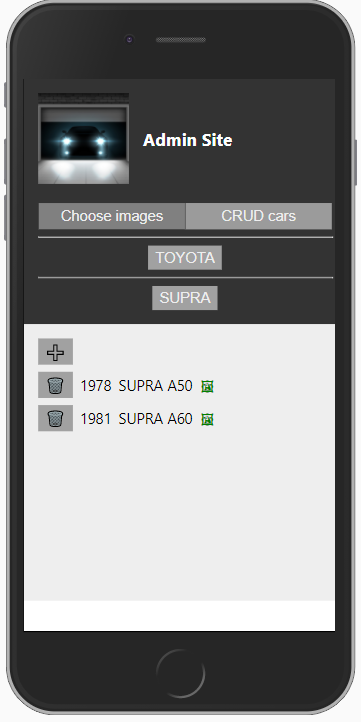
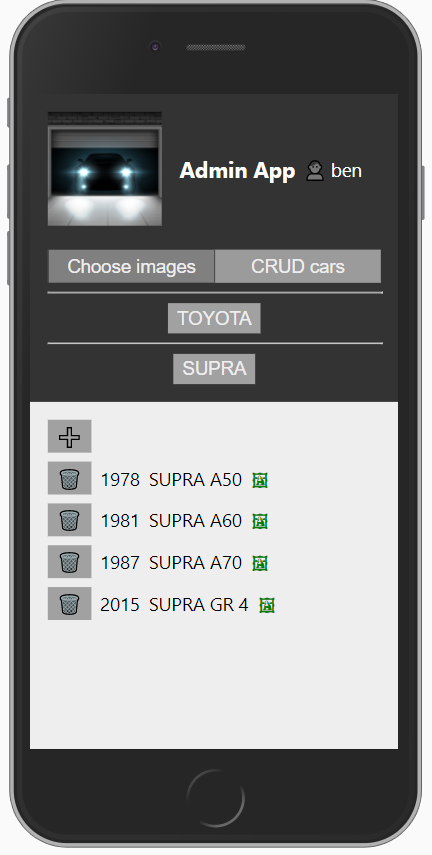
:lipstick: username in header no header scroll

diff --git a/admin-frontend/src/App.js b/admin-frontend/src/App.js
@@ -8,7 +8,6 @@ import { fetchInitData, noCarImageMatch, selectCarImage, createCar, removeCar, c
 import { authenticate, currentUserObservable } from './functions/api';
 import { Login } from './components/Login';
 import './App.css';
-import { Observable } from 'rxjs';
 
 const computeButtonClassNames = (selected, okCount, totalCount) => {
   const buttonClassNames = [];
@@ -61,7 +60,7 @@ class App extends React.Component {
     authenticate(authFields)
       .then(success => {
         currentUserObservable.next({
-          user: success.username,
+          username: success.username,
           token: success.token
         });
       })
@@ -206,15 +205,16 @@ class App extends React.Component {
               <img alt="logo" src="logo.png" />
               <h1>
                 Admin
-                Site
-            </h1>
+                App
+              </h1>
+              {user && <div style={{ marginLeft: '10px' }}>👤{` ${user.username}`}</div>}
             </section>
-            {!!user && <Menu menuSelect={selectedMenu => this.setState({ selectedMenu })} />}
+            {user && <Menu menuSelect={selectedMenu => this.setState({ selectedMenu })} />}
           </section>
-          {!!user && headerBrandModelElements}
+          {user && headerBrandModelElements}
         </header>
         <main className="App-main">
-          {!!user && selectedMenuElement}
+          {user && selectedMenuElement}
           {!user && <Login onSubmit={this.loginProcess} errorMessage={errorMessage} />}
         </main>
       </div>

diff --git a/admin-frontend/src/App.css b/admin-frontend/src/App.css
@@ -16,7 +16,6 @@
   justify-content: center;
   color: white;
   padding: 20px;
-  width: 100%;
 }
 
 .App-header .top {
